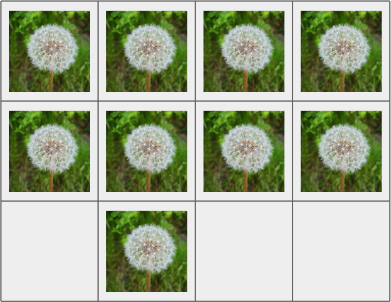
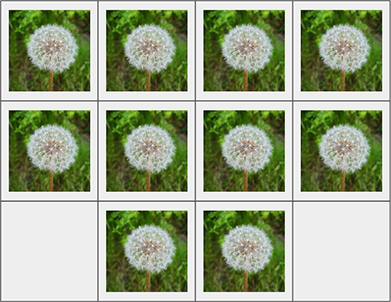
[maskrosor] statement fixes

diff --git a/langtavling/maskrosor/problem_statement/problem.sv.tex b/langtavling/maskrosor/problem_statement/problem.sv.tex
@@ -8,7 +8,7 @@ som säljer maskrosläsk. För att göra detta kommer han självklart behöva en
 intill varandra. Mer exakt, om man delar upp ängen i rutor av storlek $1 \times 1$ meter, så kan det växa
 som mest en maskrosa innanför varje.
 
-Just nu växer det maskrosor på $N$ stycken celler. Gösta vill att hans äng ska ha en maskrosa i varje ruta. 
+Just nu växer det maskrosor i $N$ stycken rutor. Gösta vill att hans äng ska ha en maskrosa i varje ruta. 
 En gång om året blommar maskrosorna, och han kan då använda en stor fläkt för att blåsa antingen från väst,
 öst, norr eller syd. Varje blommande maskrosas frön kommer då att röra sig en ruta i riktningen av vinden.
 Om rutan den landar på är tom kommer det växa en maskrosa på den nästa år. Om det redan finns en maskrosa
@@ -21,7 +21,7 @@ Den första raden innehåller heltalen $R$ och $C$ ($1 \leq R,C \leq 10^9$), ant
 Därefter följer en rad med heltalet $N$ ($1 \leq N \leq 300$), antalet maskrosor i ängen just nu.
 
 De kommande $N$ radera innehåller heltalen $r_i$ och $c_i$ ($1 \leq r_i \leq R$, $1 \leq c_i \leq C$), vilket betyder
-att det till en början växer en maskros i cellen ($r_i, c_i$). I början växer aldrig två maskrosor på samma ruta.
+att det till en början växer en maskros i rutan ($r_i, c_i$). I början växer aldrig två maskrosor på samma ruta.
 
 \section*{Utdata}
 Skriv ut ett heltal: det minsta antalet år för att fylla hela ängen med maskrosor om vindriktningarna väljs optimalt.
@@ -50,7 +50,7 @@ Till en början finns maskrosor på följande rutor:
       \includegraphics[width=0.8\textwidth]{t0.png}
   \end{figure}
 \end{centering}
-Om vi blåser vind från söder sprids maskrosorna till västerut:
+Om vi blåser vind från söder sprids maskrosorna västerut:
 \begin{centering}
   \begin{figure}[h]
       \centering

diff --git a/langtavling/maskrosor/problem_statement/problem.en.tex b/langtavling/maskrosor/problem_statement/problem.en.tex
@@ -2,17 +2,17 @@
 \noindent
 During his youth, Gösta was quite fond of dandelion soda. 
 Unfortunately, it's not popular at all anymore. 
-In his older age, Gösta has become wealthy, and he now wants to use his fortune to open a business selling dandelion soda. 
+In his older age, Gösta has become quite wealthy, and now he wants to use his fortune to open a business selling dandelion soda. 
 To do this, he will obviously need a lot of dandelions. He has a meadow that is $R \times C$ square meters in size. 
 It is well known that dandelions do not thrive if they grow close to each other. 
 More precisely, if the meadow is divided into squares of size $1 \times 1$ meter, at most one dandelion can grow within each.
 
-Currently, there are dandelions growing in $N$ cells. 
+Currently, there are dandelions growing in $N$ squares. 
 Gösta wants his meadow to have a dandelion in every square. 
 Once a year, the dandelions bloom, and he can then use a large fan to blow from either the west, east, north, or south. 
 Each blooming dandelion's seeds will then move one square in the direction of the wind. 
 If the square it lands on is empty, a dandelion will grow there next year. 
-If there is already a dandelion on a square, it will remain there next year as well. 
+If there already is a dandelion on a square, it will remain there next year as well. 
 Since Gösta doesn't have many years left, he wants to calculate the number of years it will take to fill the entire meadow with dandelions if he chooses the optimal wind directions.
 
 
